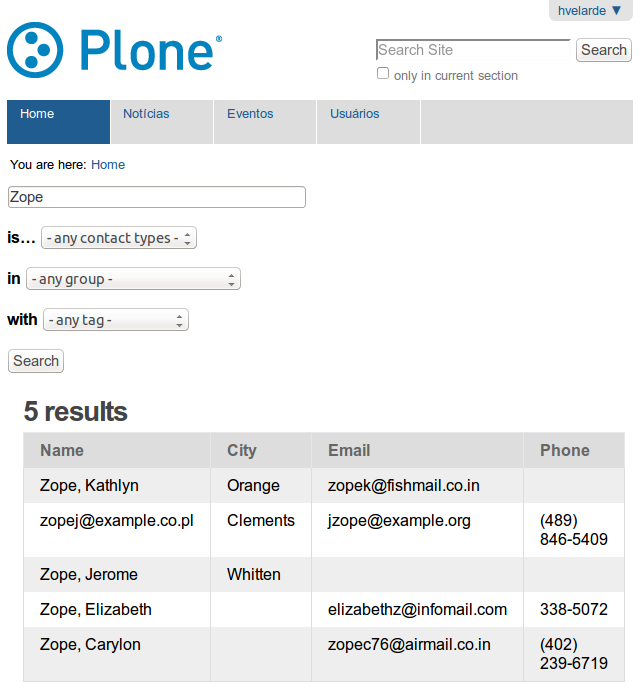
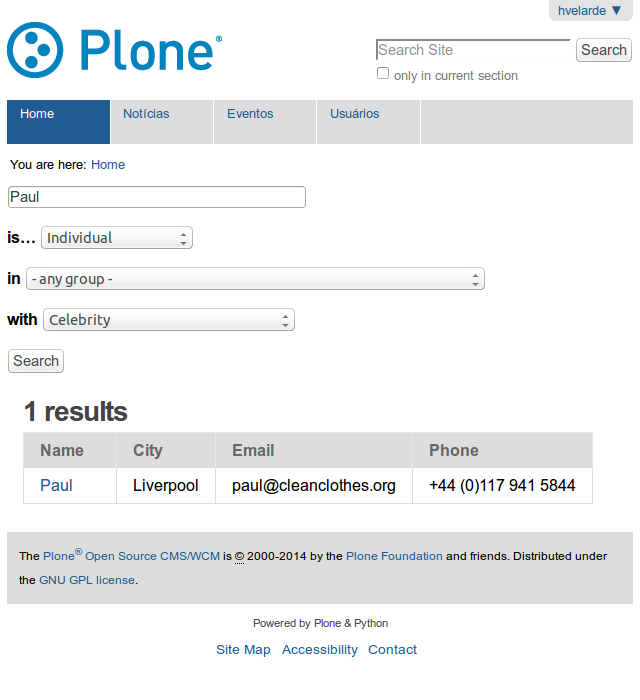
Update package documentation

diff --git a/README.rst b/README.rst
@@ -87,10 +87,25 @@ Set up the API key for all users that will use the CiviCRM integration.
     :height: 640px
     :width: 640px
 
-Go to the @@civicrm-find-contacts view at the site root and start making searches.
+Go to the ``@@civicrm-find-contacts`` view at the site root and start making searches.
 You can search for contacts by name or email, and you can filter the results by contact type, group and tag.
 
 .. figure:: https://raw.github.com/collective/collective.civicrm/master/search.png
+    :align: center
+    :height: 700px
+    :width: 640px
+
+You can select any contact from the results to see his details.
+After a few seconds you will also see the relationships of the contact.
+
+.. figure:: https://raw.github.com/collective/collective.civicrm/master/contact.png
+    :align: center
+    :height: 700px
+    :width: 640px
+
+You can also select any contact from the relationships list for more details.
+
+.. figure:: https://raw.github.com/collective/collective.civicrm/master/relations.png
     :align: center
     :height: 700px
     :width: 640px
